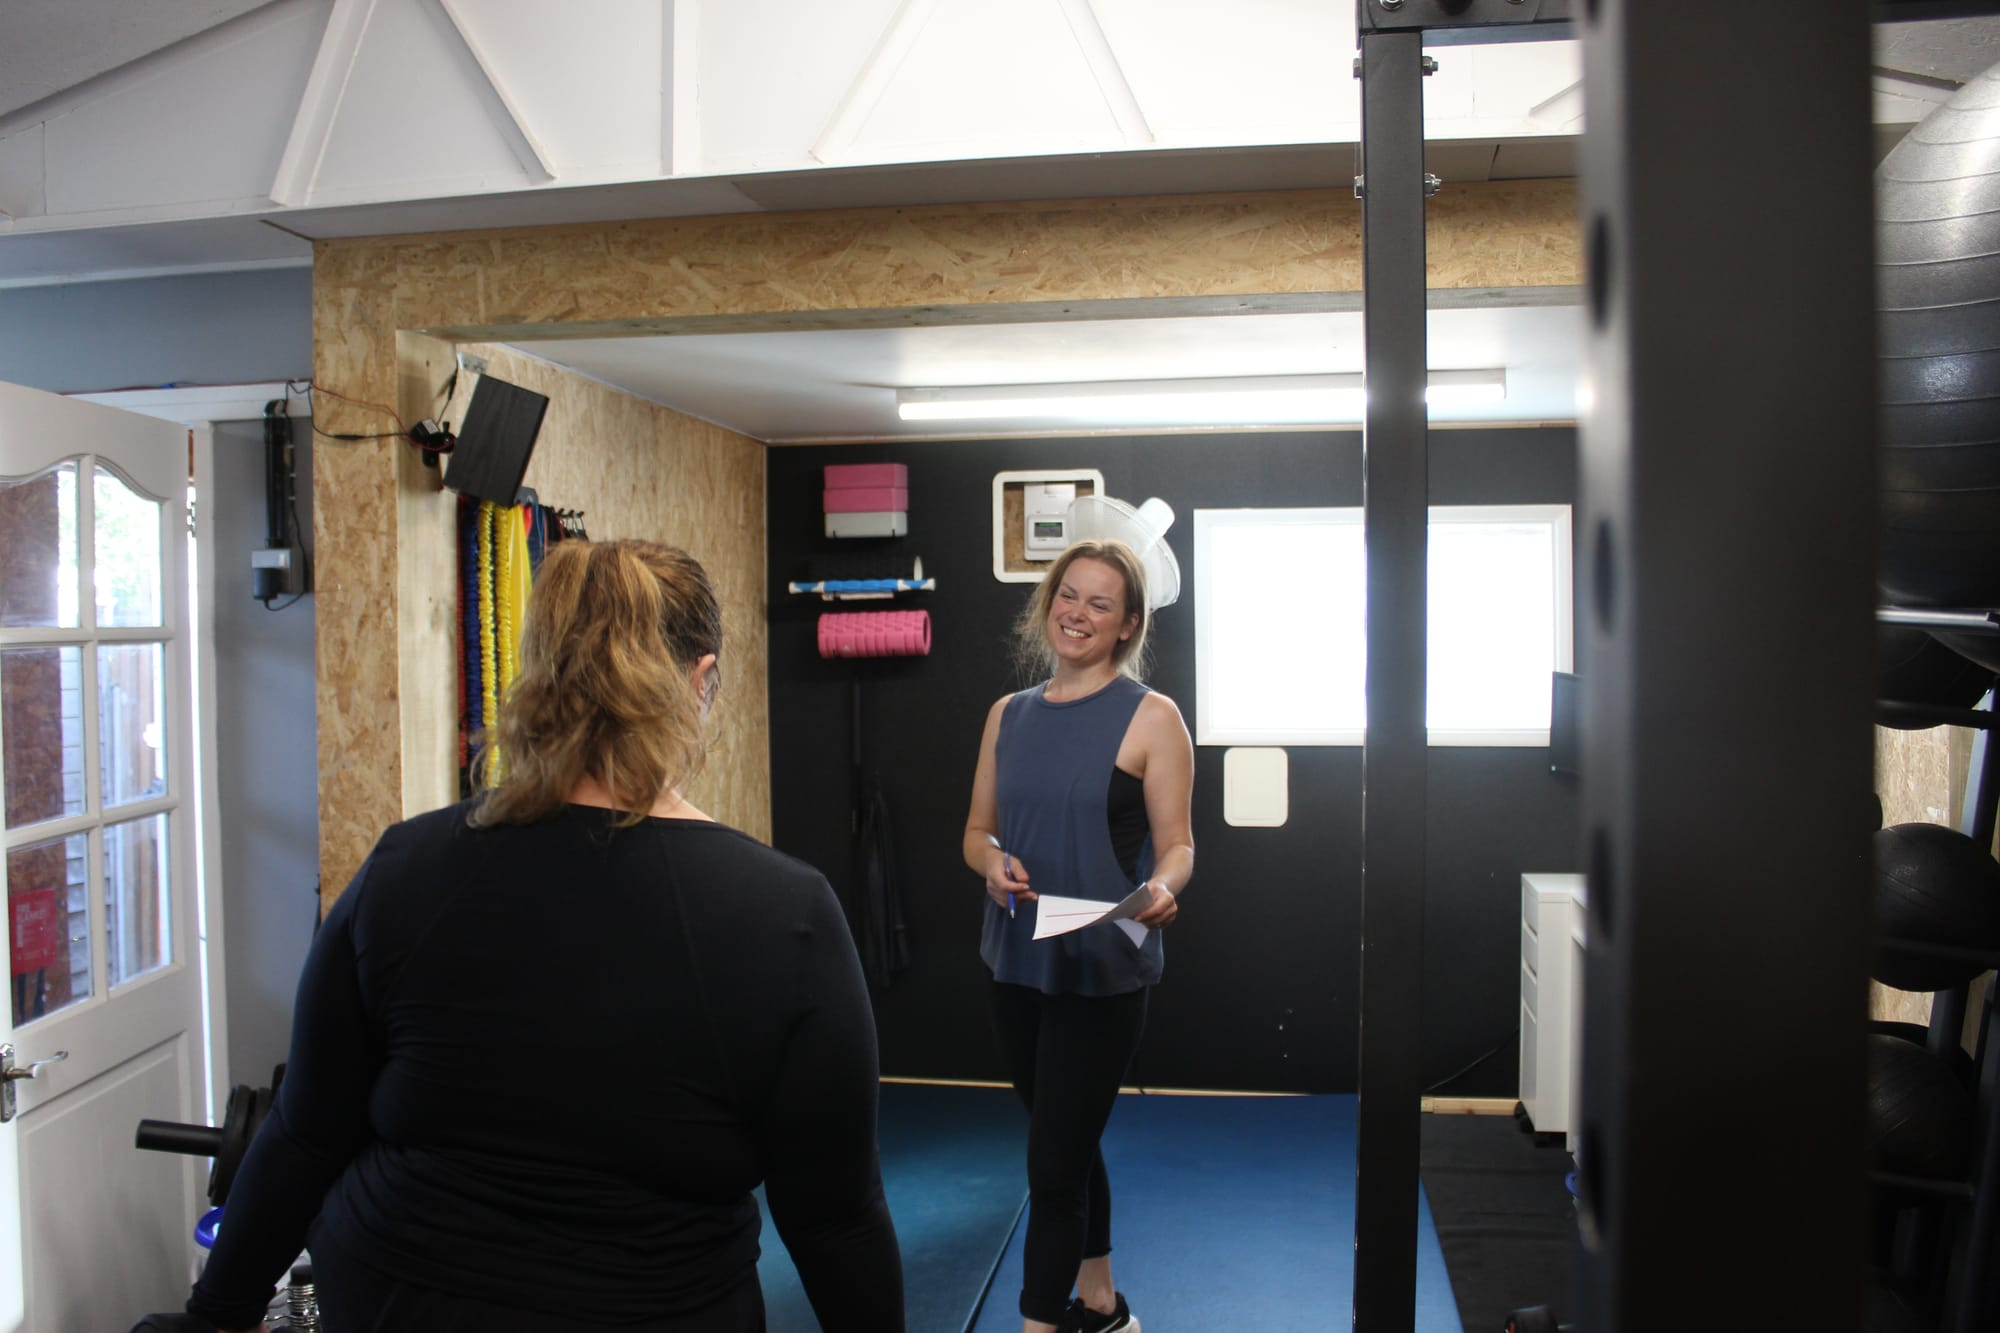
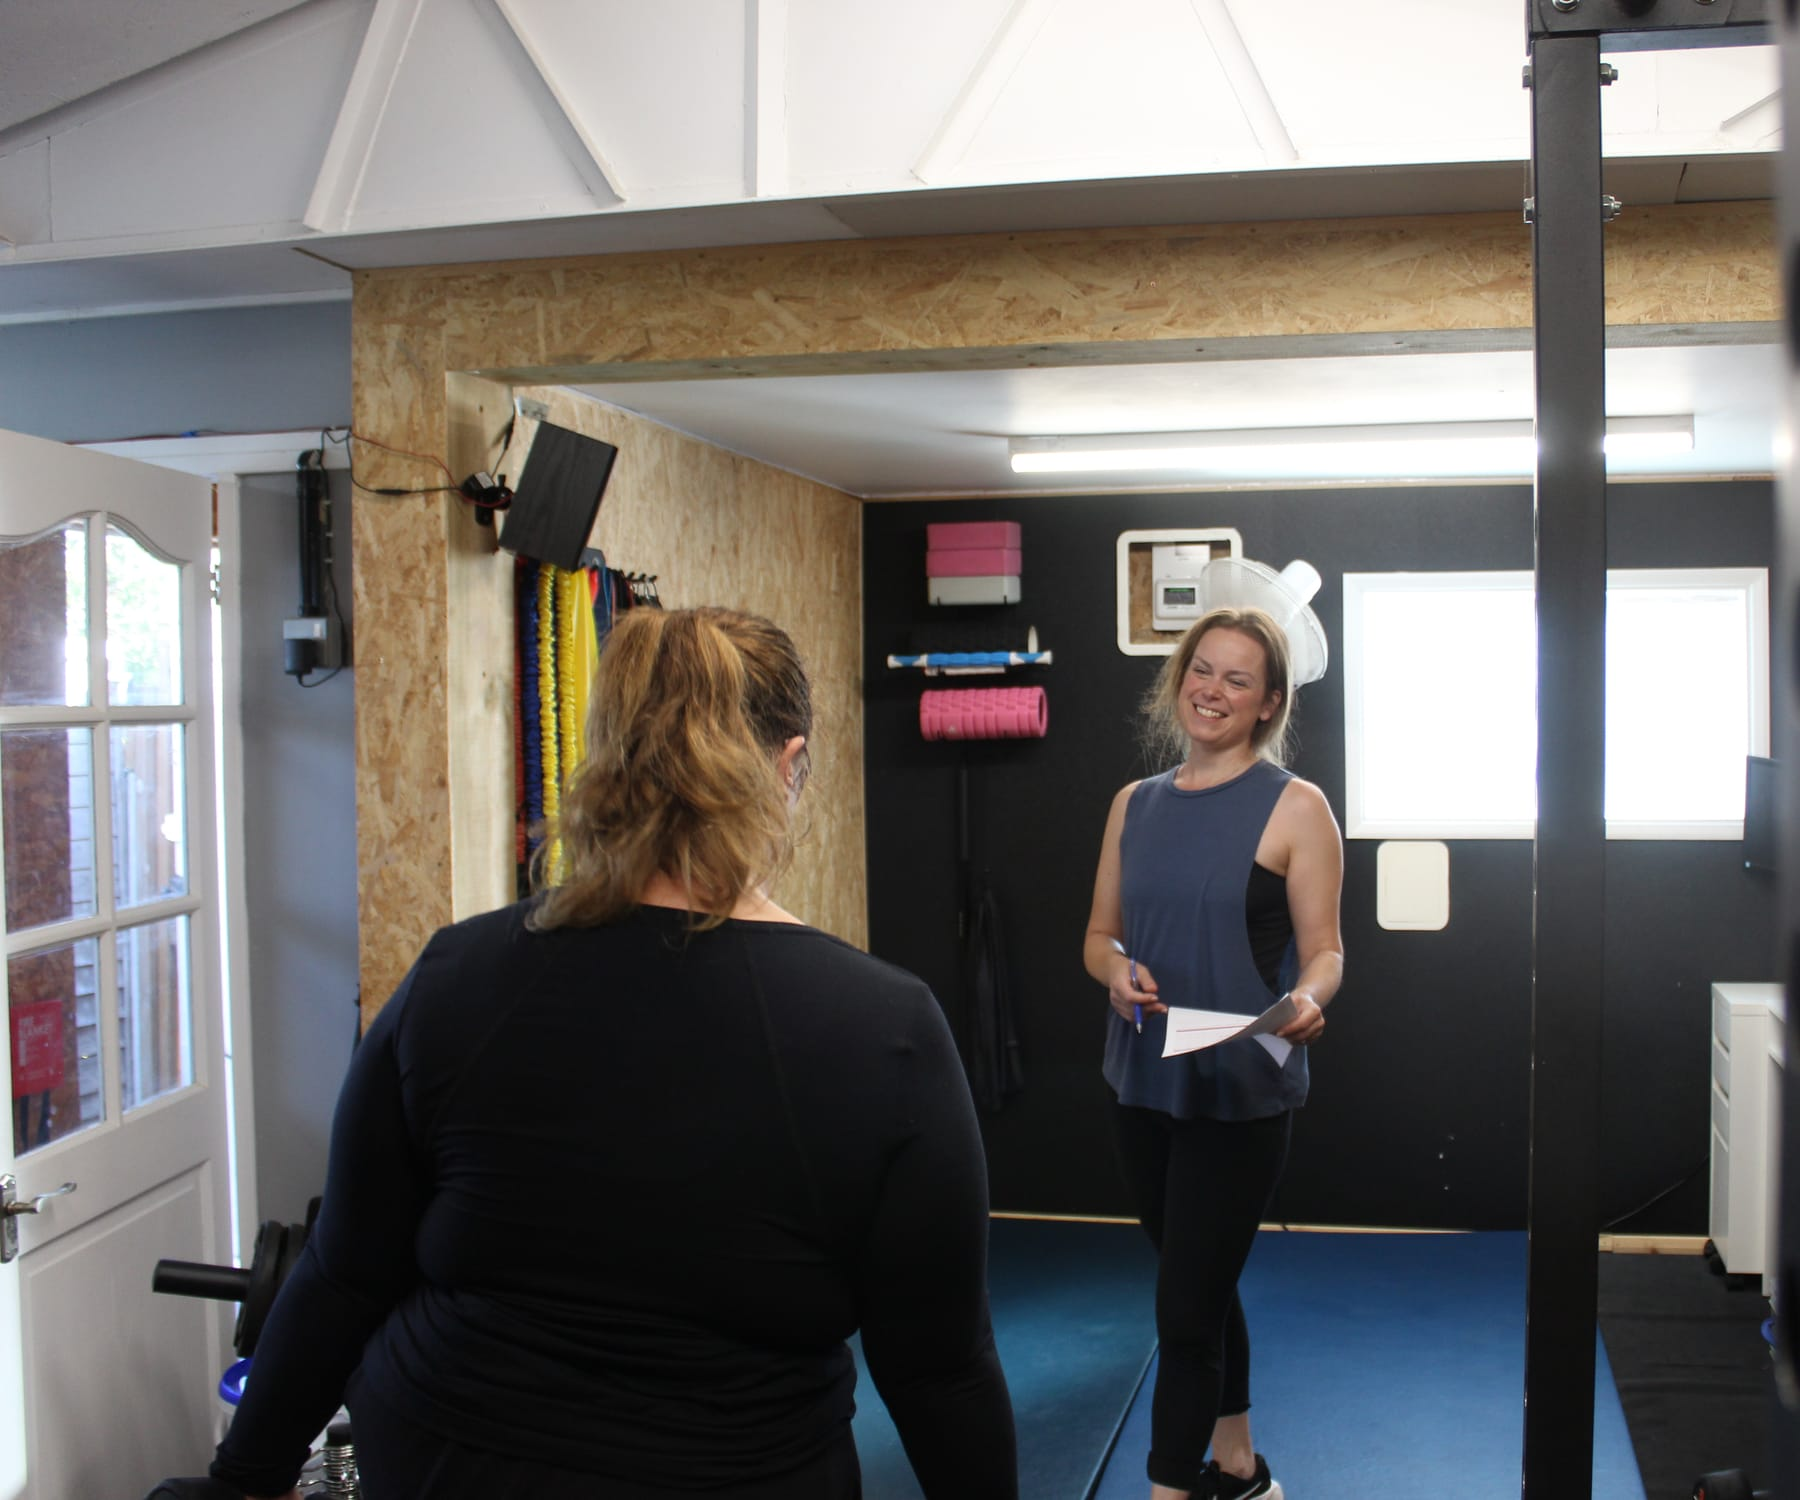
fix(CR-EF-209): re-crop hero so Esther clears the heading

diff --git a/app/medical-conditions/MedicalConditionsClient.tsx b/app/medical-conditions/MedicalConditionsClient.tsx
@@ -56,8 +56,8 @@ export default function MedicalConditionsClient() {
       <PageHero
         image="/images/consultation-standing-chat-mats.jpg"
         imageAlt="Esther standing on the blue mats in the private Worthing studio with a pen and a sheet of notes, smiling as she talks with a client at the start of a session."
-        imageObjectPosition="56% 50%"
-        imageObjectPositionWide="50% 45%"
+        imageObjectPosition="81% 40%"
+        imageObjectPositionWide="50% 40%"
         imageDescription={"A first conversation in the studio. Esther stands on the blue mats holding a pen and a sheet of notes, smiling towards a client who has her back to the camera. Nobody is lifting anything yet \u2014 talking comes first. Foam rollers and blocks hang in fixed places on the wall behind her, resistance bands are racked by the door, and the mats are clear."}
         eyebrow={"Training With a Medical Condition"}
         heading={<>{"Training That Adapts"}<br />{"to Your Health"}</>}
